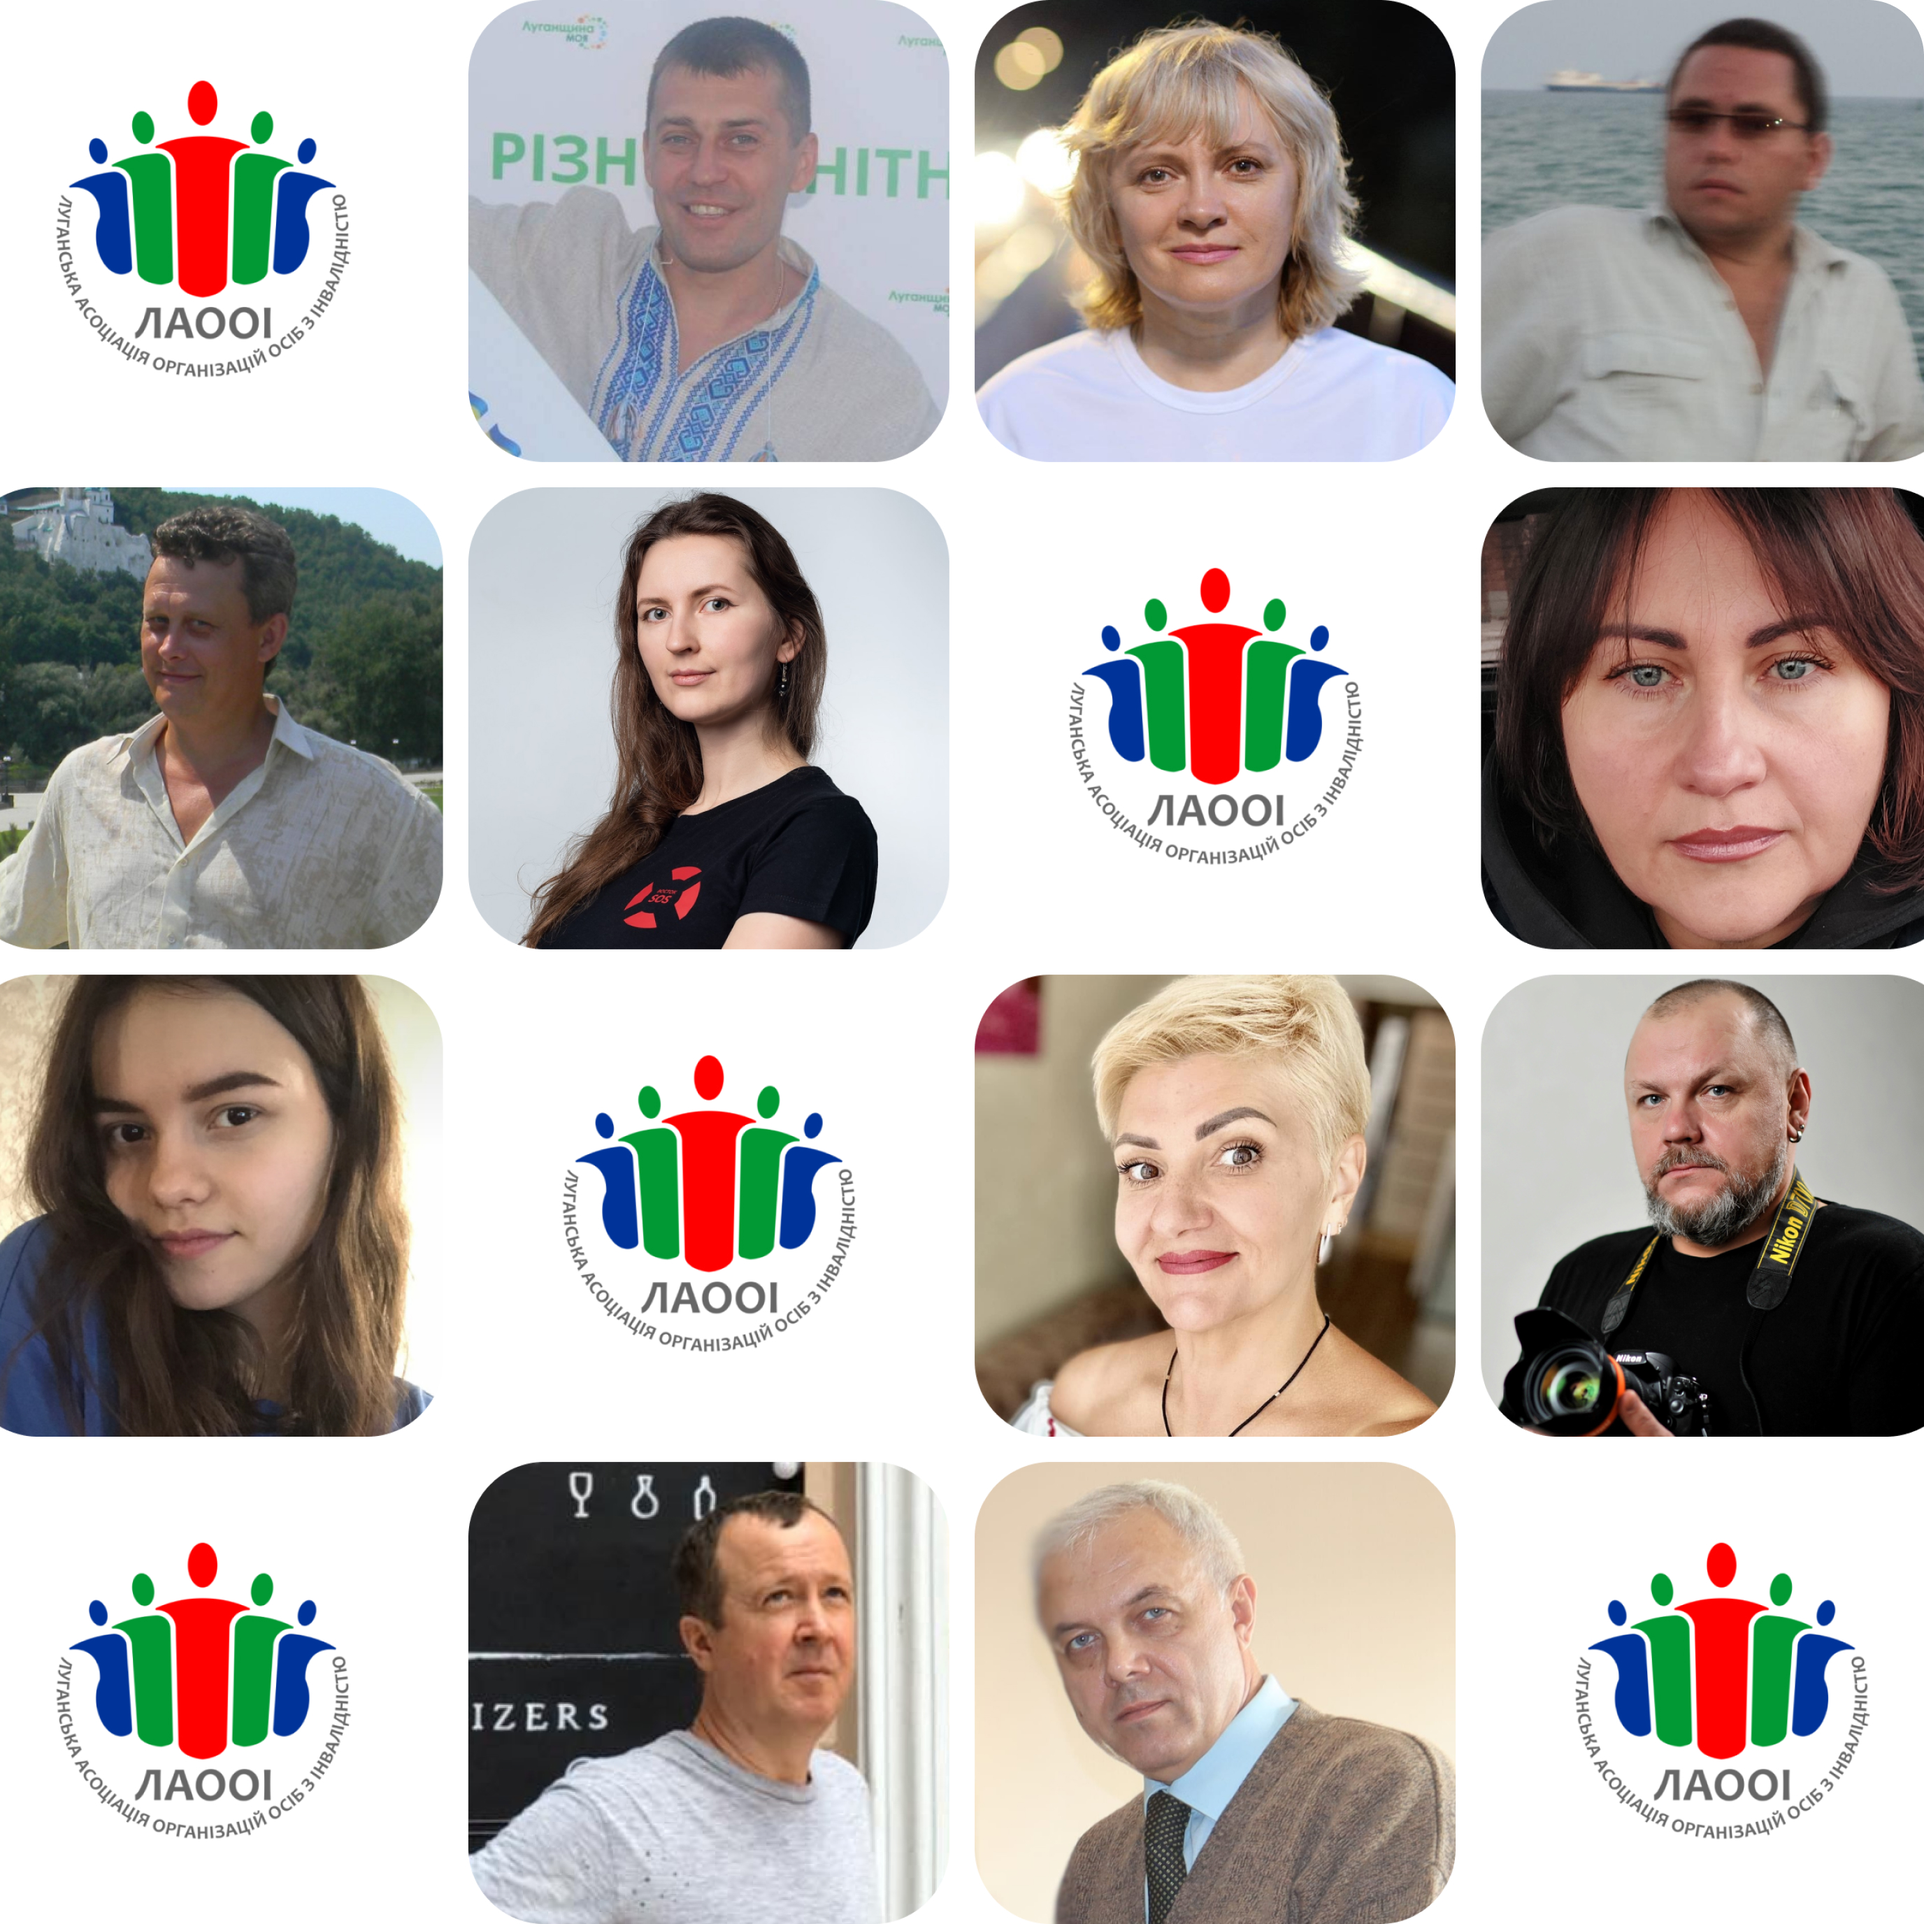
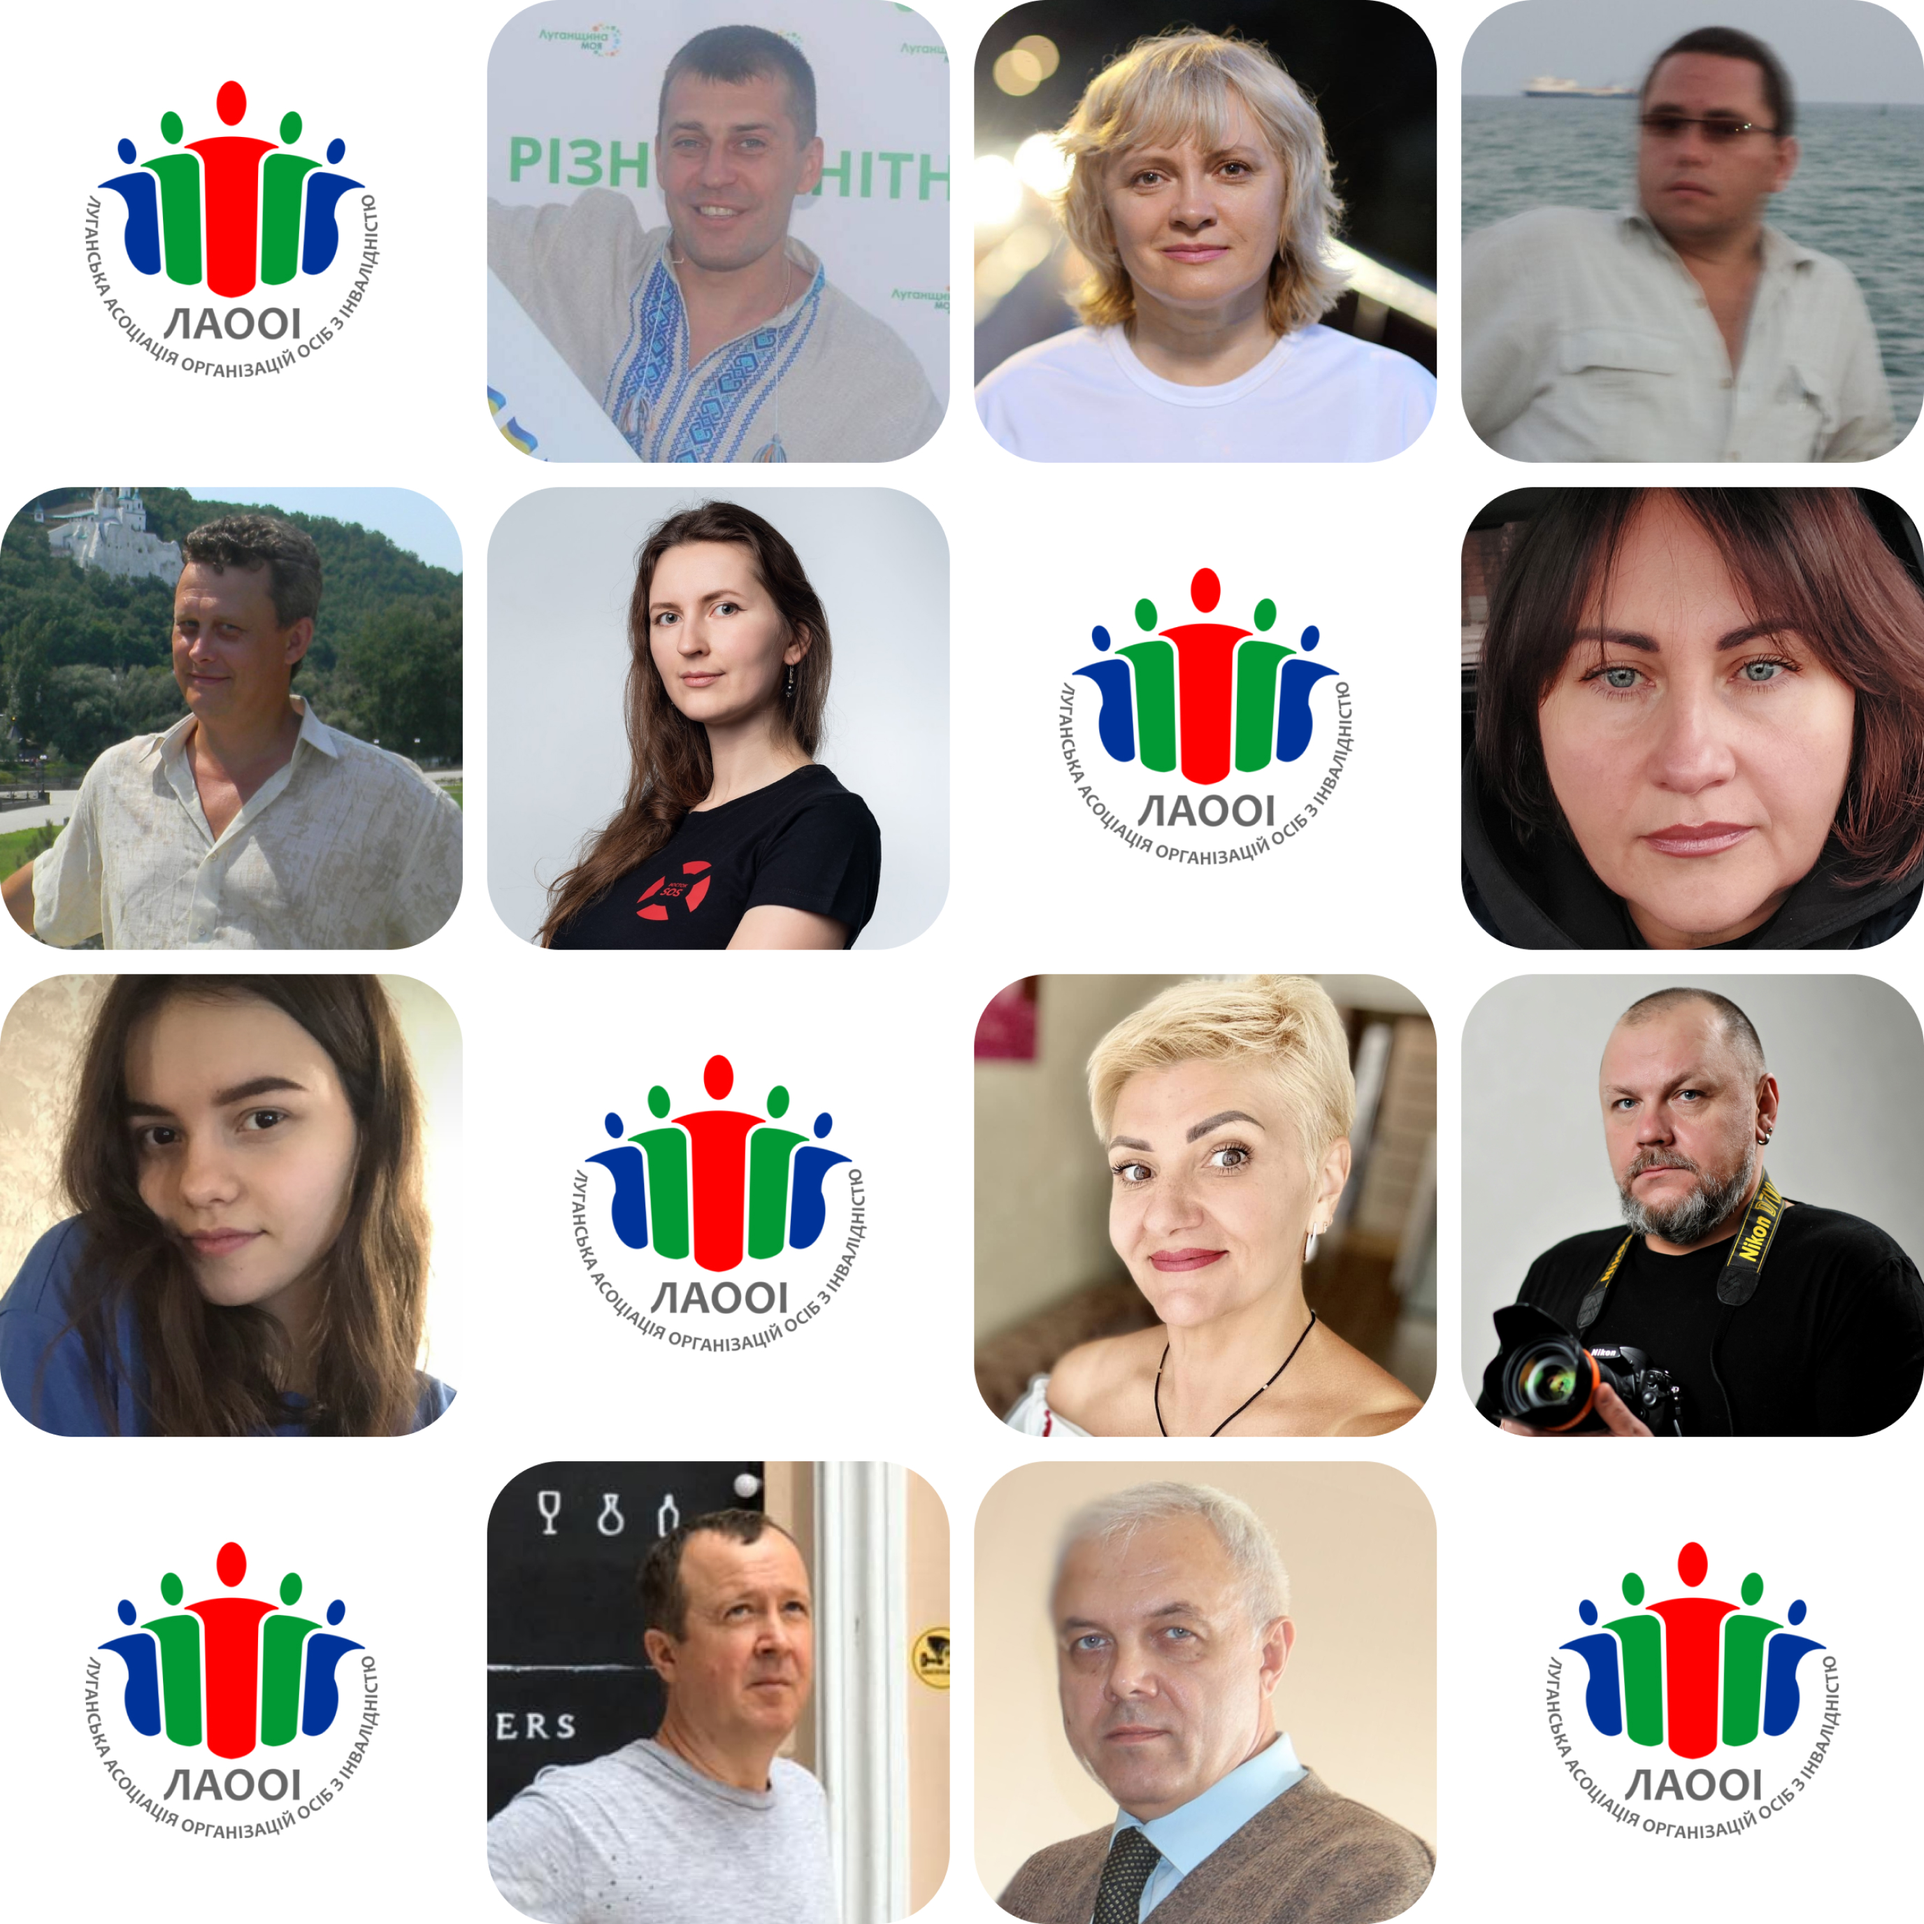
fix team photo and hero section text margins

diff --git a/src/sections/AdvisorsHeroSection/AdvisorsHeroSection.tsx b/src/sections/AdvisorsHeroSection/AdvisorsHeroSection.tsx
@@ -49,28 +49,30 @@ export const AdvisorsHeroSection: React.FC<ISectionProps> = ({
             </div>
           </div>
 
-          <div className="rounded-[16px] bg-bgLightSlate p-[24px] text-base/normal text-textPrimary md:rounded-[20px] md:p-[32px] xl:flex xl:flex-col xl:justify-between xl:rounded-[24px] xl:p-[40px] xl:text-lg/normal">
-            <p className="mb-6">
-              <b>{quotedText.advisors}</b>
+          <div className="rounded-[16px] bg-bgLightSlate p-[24px] text-base/[1.5] text-textPrimary md:rounded-[20px] md:p-[32px] xl:flex xl:flex-col xl:rounded-[24px] xl:p-[40px] xl:text-lg">
+            <div className="mb-4 xl:mb-6">
+              <p className="mb-4">
+                <b>{quotedText.advisors}</b>
 
-              {firstParagraph.after}
-            </p>
+                {firstParagraph.after}
+              </p>
 
-            <p className="mb-6">
-              {secondParagraph.before}
+              <p className="mb-4">
+                {secondParagraph.before}
 
-              <b>{quotedText.question}</b>
+                <b>{quotedText.question}</b>
 
-              {secondParagraph.after}
-            </p>
+                {secondParagraph.after}
+              </p>
 
-            <p className="mb-4 xl:mb-6">
-              {thirdParagraph.before}
+              <p>
+                {thirdParagraph.before}
 
-              <b>{quotedText.become}</b>
+                <b>{quotedText.become}</b>
 
-              {thirdParagraph.after}
-            </p>
+                {thirdParagraph.after}
+              </p>
+            </div>
 
             <ButtonLink
               type="link"

diff --git a/src/sections/MainAreasHeroSection/MainAreasHeroSection.tsx b/src/sections/MainAreasHeroSection/MainAreasHeroSection.tsx
@@ -20,7 +20,7 @@ export const MainAreasHeroSection: React.FC<MainAreasHeroSectionProps> = ({
           {title}
         </Title>
 
-        <div className="flex flex-col gap-[8px] xl:flex-row xl:items-start xl:gap-[16px]">
+        <div className="flex flex-col gap-[8px] md:gap-[16px] xl:flex-row xl:items-start">
           <div className="flex h-[288px] overflow-hidden rounded-2xl md:size-[688px] xl:sticky xl:size-[632px]">
             <Image
               width={632}
@@ -33,8 +33,8 @@ export const MainAreasHeroSection: React.FC<MainAreasHeroSectionProps> = ({
 
           <div className="rounded-2xl bg-bgLightSlate p-6 md:p-[32px] xl:inline-block xl:w-[632px] xl:p-[40px]">
             <p className="text-base/[1.3] xl:text-lg/[1.35]">
-              <span className="font-bold">{after}</span>
-              &nbsp;-&nbsp;{before}
+              <span className="font-bold">{before}</span>
+              &nbsp;-&nbsp;{after}
             </p>
           </div>
         </div>

diff --git a/src/components/ui/PostText/PostText.tsx b/src/components/ui/PostText/PostText.tsx
@@ -4,9 +4,7 @@ import { PostTextProps } from './types';
 
 export const PostText: React.FC<PostTextProps> = ({ body }) => {
   return (
-    <div
-      className={'mx-auto mb-4 flex flex-col gap-1 xl:mb-6 xl:max-w-[632px]'}
-    >
+    <div className={'mx-auto mb-4 flex flex-col xl:mb-6 xl:max-w-[632px]'}>
       <PortableText
         value={body}
         components={{
@@ -22,7 +20,9 @@ export const PostText: React.FC<PostTextProps> = ({ body }) => {
               </h3>
             ),
             normal: ({ children }) => (
-              <p className="text-base/normal md:text-lg">{children}</p>
+              <p className="mb-4 text-base/[1.5] last:mb-0 md:text-lg">
+                {children}
+              </p>
             ),
             blockquote: ({ children }) => (
               <blockquote className="border-l-4 border-textActive bg-bgLightSlate pl-4 text-base/normal font-bold italic text-textMenuAccent md:text-lg">

diff --git a/src/sections/StrategyValueSection/StrategyValueSection.tsx b/src/sections/StrategyValueSection/StrategyValueSection.tsx
@@ -52,7 +52,7 @@ export const StrategyValueSection: React.FC<StrategyValueSectionProps> = ({
             <li
               key={idx}
               className={cn(
-                'min-h-[10.75rem] overflow-hidden rounded-3xl bg-bgLightSlate p-[24px] md:min-h-[11.75rem] md:w-[308px] md:p-[32px] xl:min-h-[15.5rem] xl:w-[308px] xl:p-[40px]',
+                'overflow-hidden rounded-3xl bg-bgLightSlate p-[24px] md:min-h-[11.75rem] md:w-[308px] md:p-[32px] xl:min-h-[15.5rem] xl:w-[308px] xl:p-[40px]',
                 {
                   'flex items-center justify-center bg-bgLight p-0 md:p-0 xl:p-0':
                     value.isLogo,

diff --git a/src/sections/AboutTeamSection/AboutTeamSection.tsx b/src/sections/AboutTeamSection/AboutTeamSection.tsx
@@ -15,7 +15,7 @@ export const AboutTeamSection: React.FC<ISectionProps> = ({ dict, lang }) => {
         </Title>
 
         <div className="xl:flex xl:gap-[16px]">
-          <div className="mb-2 shrink-0 overflow-hidden rounded-[16px] md:mb-4 md:size-[688px] md:rounded-[20px] xl:sticky xl:top-[7.5rem] xl:mb-0 xl:h-[608px] xl:w-[632px] xl:rounded-[24px]">
+          <div className="mb-2 shrink-0 overflow-hidden rounded-[16px] md:mb-4 md:size-[688px] md:rounded-[20px] xl:sticky xl:top-[7.5rem] xl:mb-0 xl:size-[632px] xl:rounded-[24px]">
             <Image
               src={img}
               alt={alt}

diff --git a/src/sections/MainAreasSection/MainAreasSection.tsx b/src/sections/MainAreasSection/MainAreasSection.tsx
@@ -27,7 +27,7 @@ export const MainAreasSection: React.FC<MainAreasSectionProps> = ({ dict }) => {
           {areas.map((item, idx) => (
             <li
               key={idx}
-              className="min-h-[279px] rounded-3xl bg-bgLightSlate p-[24px] md:min-h-[307px] md:w-[308px] md:p-[32px] xl:min-h-[296px] xl:w-[416px] xl:p-[40px]"
+              className="rounded-3xl bg-bgLightSlate p-[24px] md:min-h-[307px] md:w-[308px] md:p-[32px] xl:min-h-[296px] xl:w-[416px] xl:p-[40px]"
             >
               <Title
                 tag={'h3'}

diff --git a/src/sections/AboutSection/AboutSection.tsx b/src/sections/AboutSection/AboutSection.tsx
@@ -26,7 +26,10 @@ export const AboutSection: React.FC<ISectionProps> = ({
 
           <div className="rounded-2xl bg-bgLightSlate p-6 md:rounded-[20px] md:p-8 xl:flex xl:flex-col xl:rounded-3xl xl:p-10">
             <p className="mb-4 text-base/normal text-textPrimary xl:text-lg/normal">
-              <span className="mb-2 inline-block">{text.first}</span>
+              {text.first}
+            </p>
+
+            <p className="mb-4 text-base/normal text-textPrimary xl:text-lg/normal">
               {text.second}
             </p>
 

diff --git a/src/sections/StrategyAboutSection/StrategyAboutSection.tsx b/src/sections/StrategyAboutSection/StrategyAboutSection.tsx
@@ -27,7 +27,7 @@ export const StrategyAboutSection: React.FC<StrategyAboutSectionProps> = ({
             />
           </div>
 
-          <div className="flex flex-col gap-5 rounded-2xl bg-bgLightSlate p-6 md:p-8 xl:gap-8 xl:p-10">
+          <div className="flex flex-col gap-4 rounded-2xl bg-bgLightSlate p-6 md:p-8">
             {description.map((item, idx) => {
               return (
                 <p

diff --git a/src/app/[lang]/blog/[slug]/page.tsx b/src/app/[lang]/blog/[slug]/page.tsx
@@ -3,6 +3,8 @@ import { BlogSection, PlaceholderSection, PostSection } from '@/sections';
 import { getPostBySlug, getAllPosts, getLatestPosts } from '@/actions/sanity';
 import { getDictionary } from '@/utils/dictionaries';
 
+export const revalidate = 0;
+
 export async function generateStaticParams() {
   const { posts } = await getAllPosts();
 

diff --git a/src/app/globals.css b/src/app/globals.css
@@ -118,6 +118,13 @@ div[data-expanded='false'] p {
   }
 }
 
+.portable-text p br,
 .portable-text br {
-  display: none;
+  display: none !important;
+  height: 0 !important;
+}
+
+br {
+  display: none !important;
+  height: 0 !important;
 }

diff --git a/src/app/[lang]/blog/page.tsx b/src/app/[lang]/blog/page.tsx
@@ -4,6 +4,8 @@ import { getAllPosts } from '@/actions/sanity';
 
 import { getDictionary } from '@/utils/dictionaries';
 
+export const revalidate = 0;
+
 enum PostType {
   News = 'news',
   Articles = 'articles',

diff --git a/src/app/[lang]/page.tsx b/src/app/[lang]/page.tsx
@@ -13,6 +13,8 @@ import {
 
 import { getDictionary } from '@/utils/dictionaries';
 
+export const revalidate = 0;
+
 export default async function Home({
   params: { lang },
 }: {
